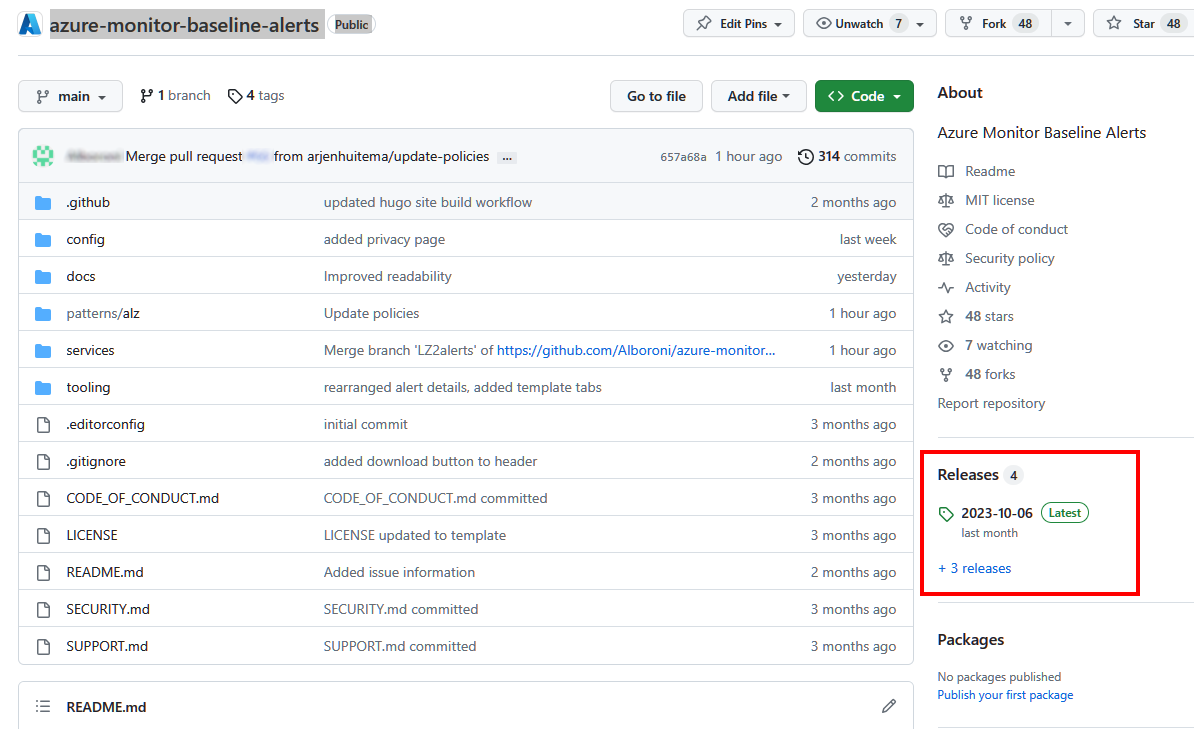
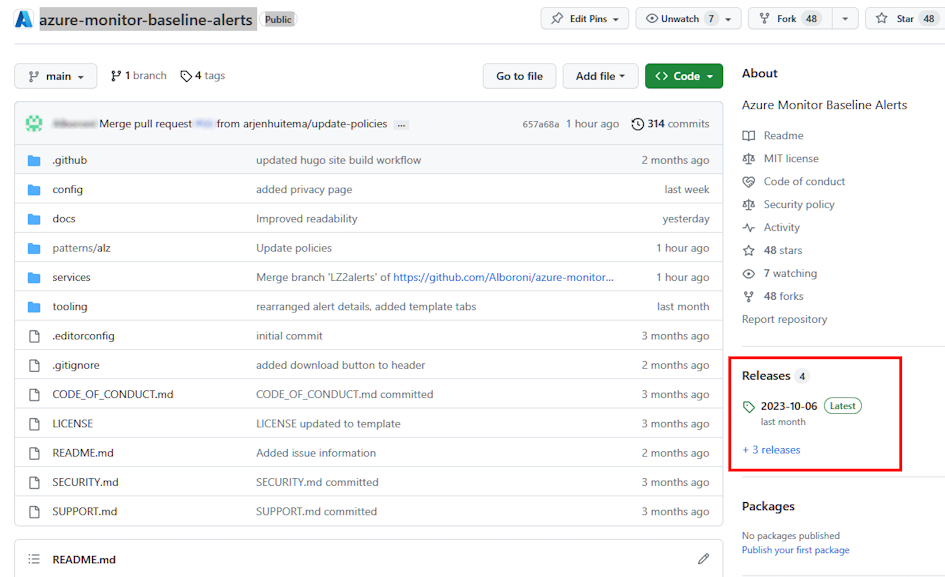
Update to new release: - Adding new image - Resized Releases.png

diff --git a/docs/content/patterns/alz/Update-to-new-Release.md b/docs/content/patterns/alz/Update-to-new-Release.md
@@ -31,7 +31,10 @@ Synching a fork means that we're making sure any update made to the main branch 
 
     ![<> Code](../media/GitHub_Code.png)
 
-3. Click on the **Sync fork** and then select **Sync**
+3. Click on the **Sync fork** and then select **Update branch**
+
+    ![Update branch](../media/../alz/media/UpdateBranch.png)
+
 4. Refresh the page and make sure to see the description reported in the picture below on the left of the **Contribute** and **Sync fork** buttons
 
     ![Branch is up to date](../media/BranchUpToDate.png)
